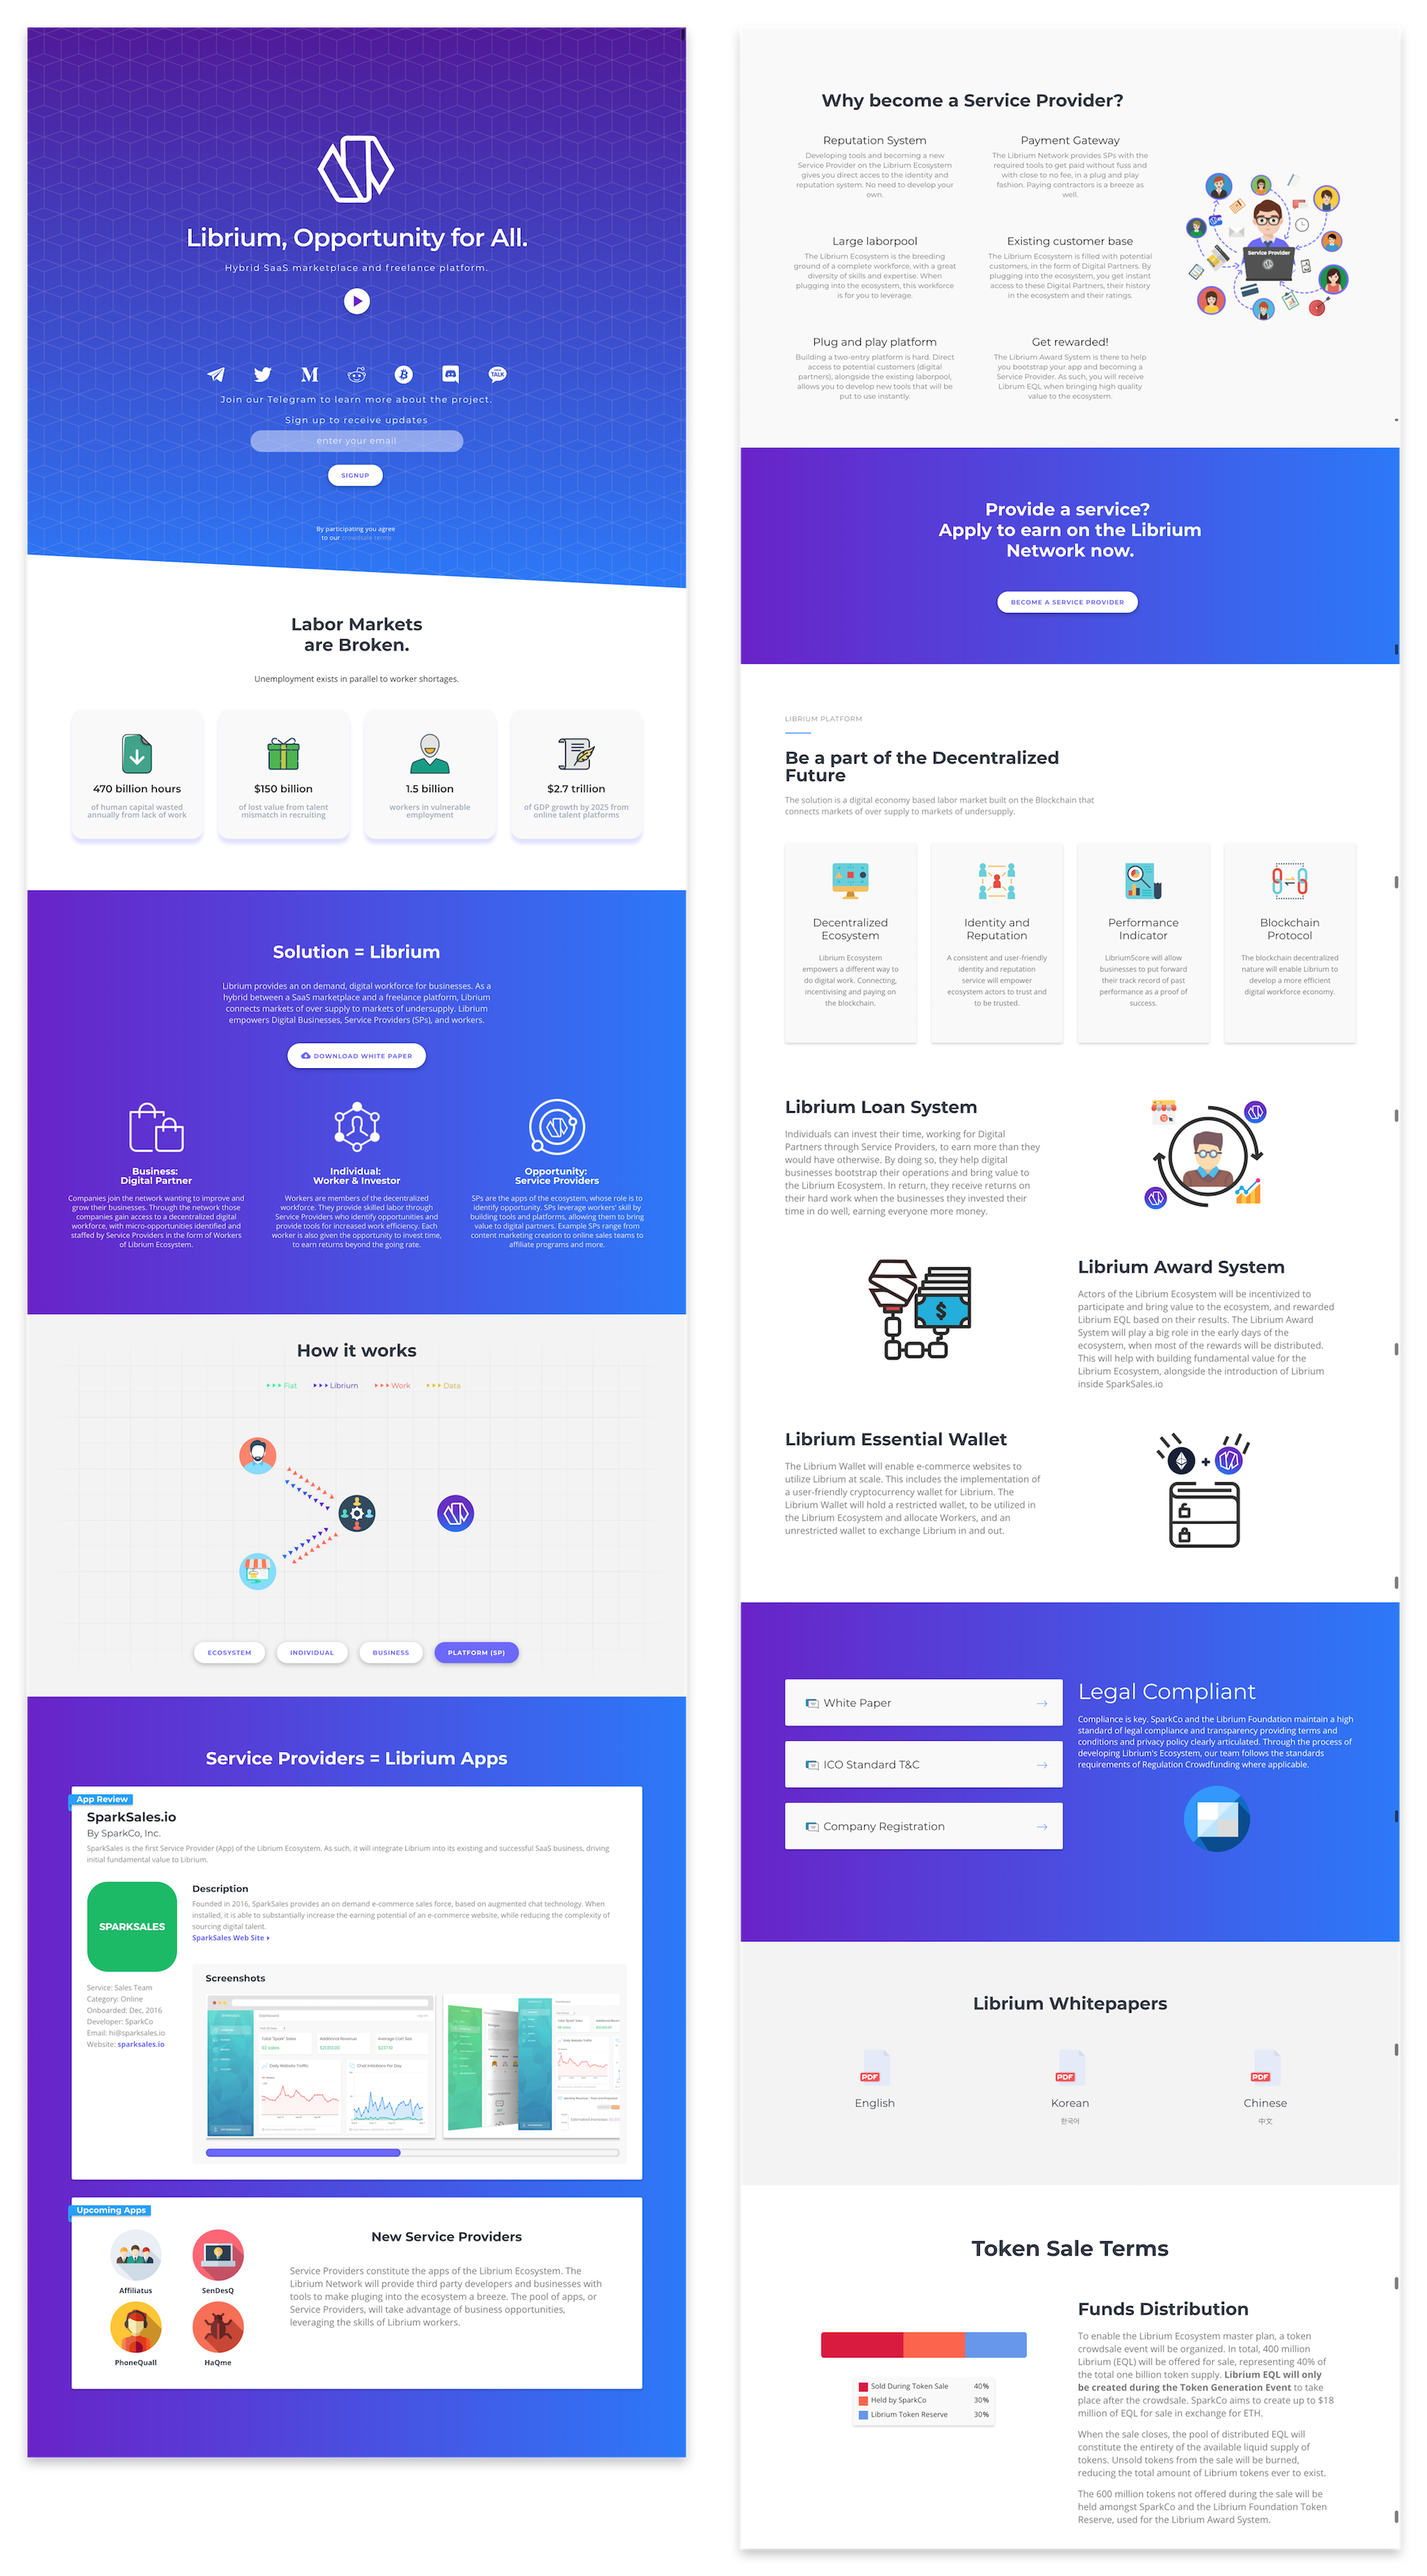
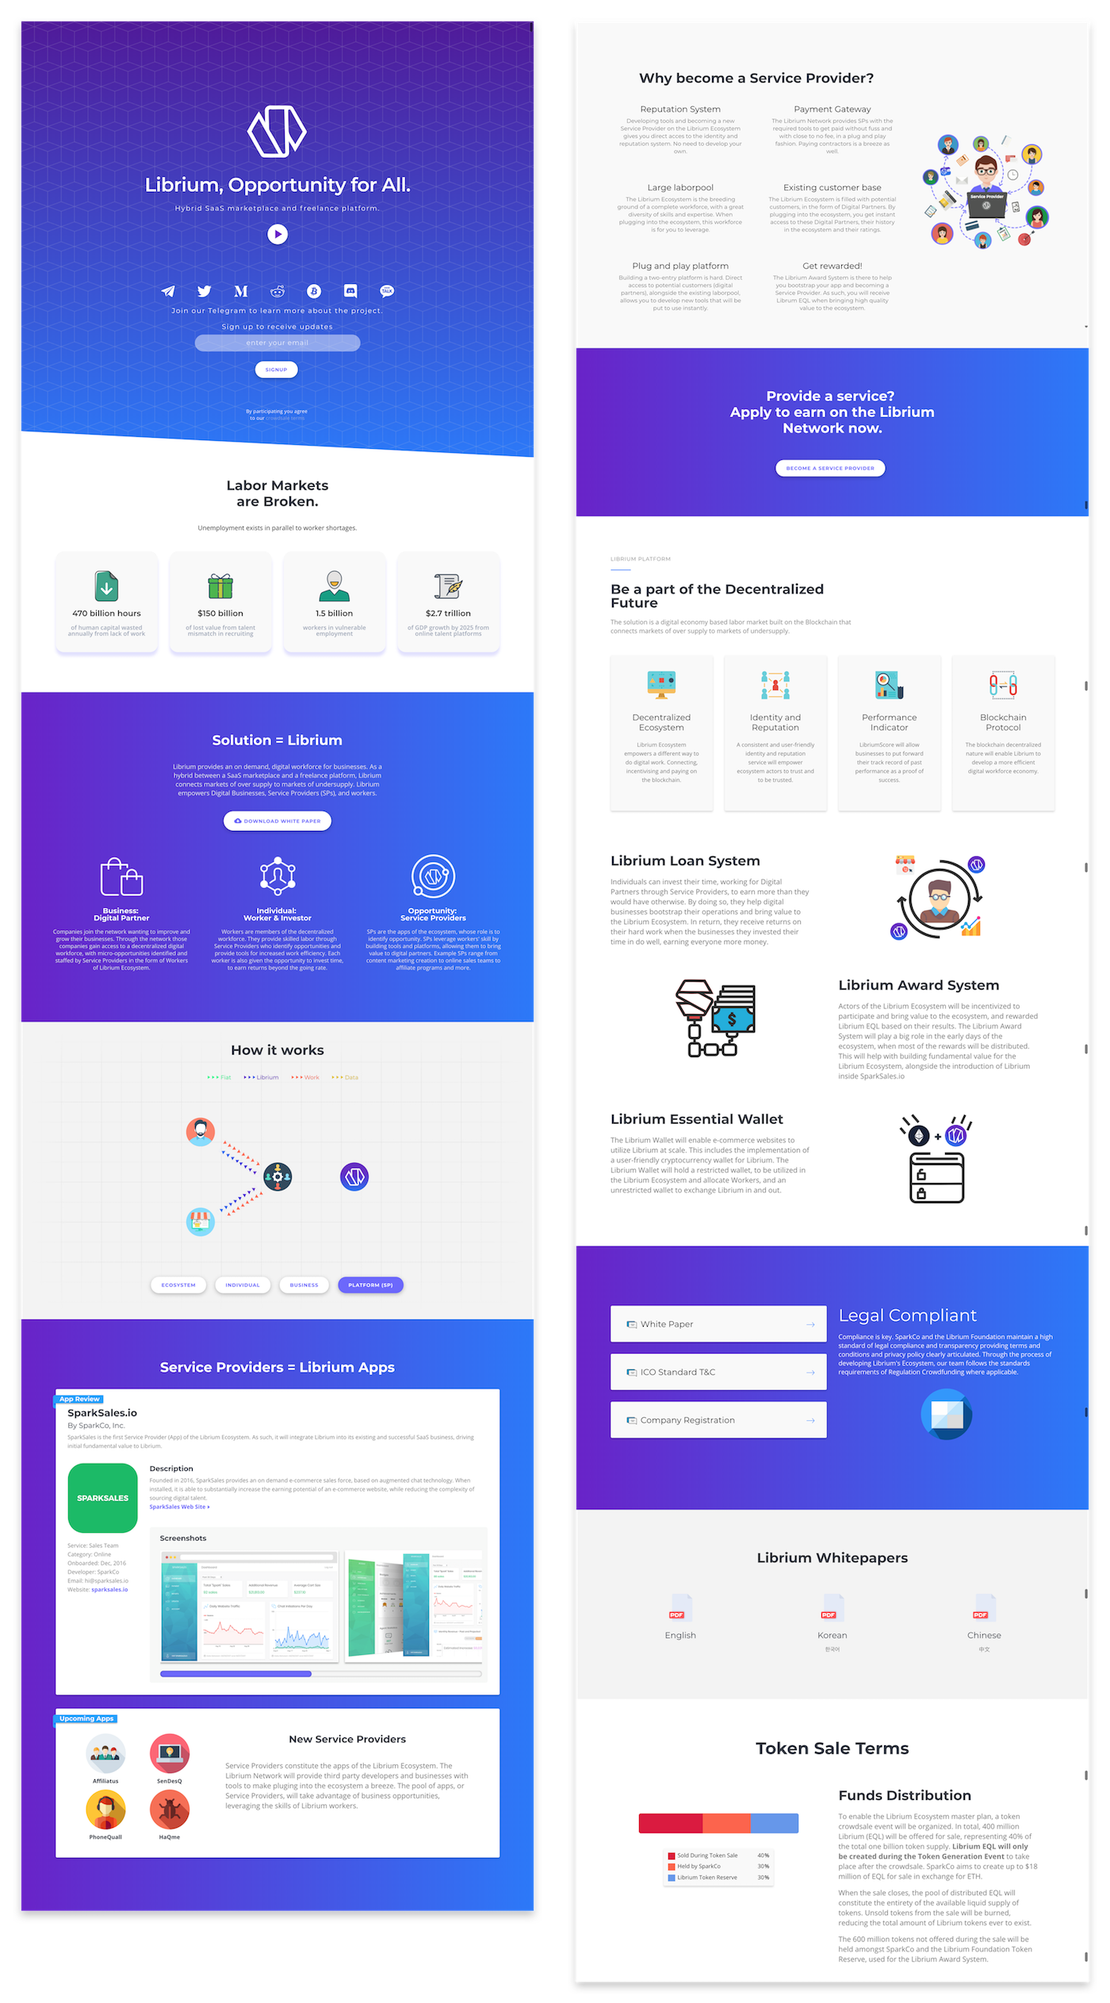
resized imgs to be smaller for performance

diff --git a/sparkco.html b/sparkco.html
@@ -148,8 +148,13 @@
 
 	<div class="section white vertical-pad flex-parent flex-ac case-study--image">
 		<div class="container pad">
+			<img class="showcase-img vertical" src="img/projects/sparkco/librium/diagram.png">
+			<p class="showcase-caption m-x-auto sm-max m-bottom-30">Static view of the Librium animated diagram.</p>
+
+			<br>
+
 			<img class="showcase-img" src="img/projects/sparkco/librium/librium-preview.png">
-			<p class="showcase-caption m-x-auto sm-max">The core screens of SparkSales' external site.</p>
+			<p class="showcase-caption m-x-auto sm-max">Preview of Librium's launch site.</p>
 		</div>
 	</div>
 
